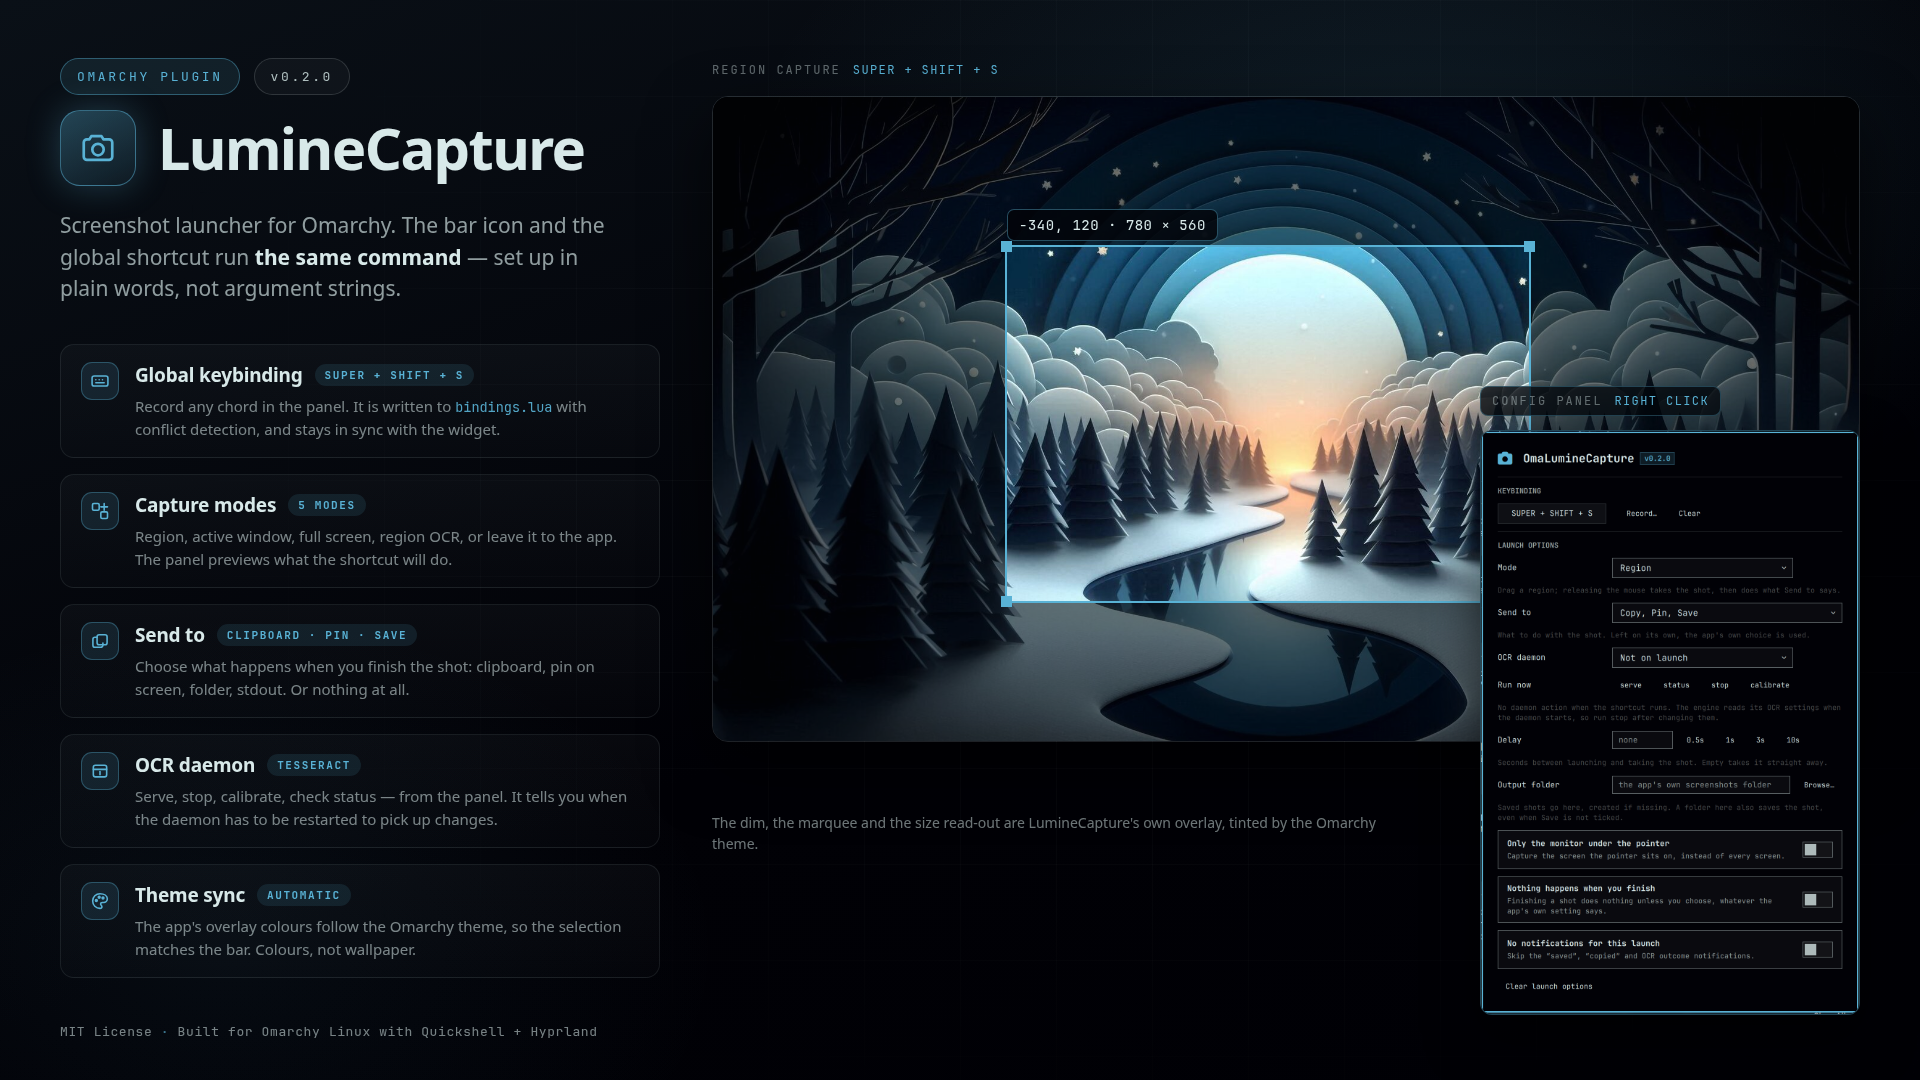
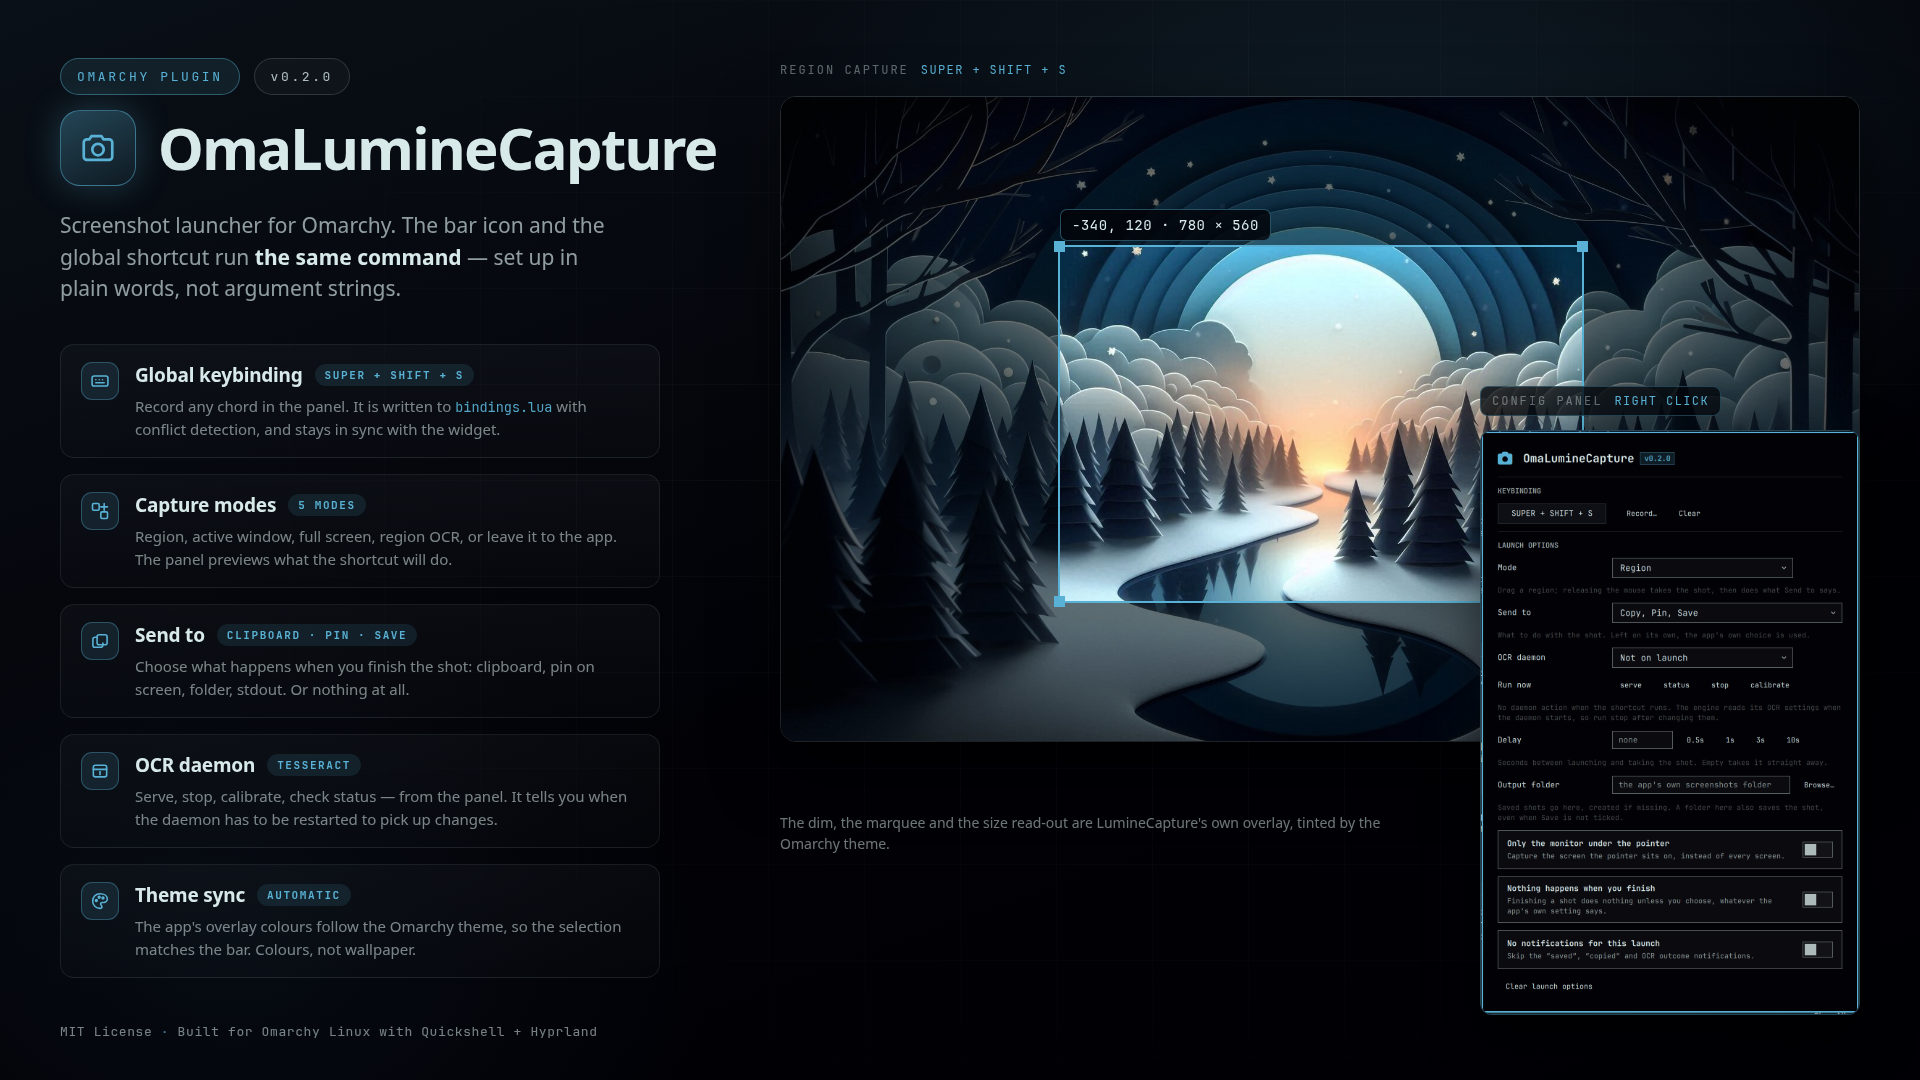
docs: name the plugin OmaLumineCapture in the preview card
The card title is the plugin name, not the app's. The longer title pushed
into the desktop screenshot, so the hero is 1080px wide at x 780 — its
right edge stays aligned with the settings panel — and the label,
marquee and caption moved with it. 65px of clearance, measured on the
render.

diff --git a/docs/preview.html b/docs/preview.html
@@ -1,6 +1,6 @@
 <!doctype html>
 <!--
-  preview.png template for the Omarchy LumineCapture plugin.
+  preview.png template for the Omarchy OmaLumineCapture plugin.
   Render with: scripts/render-preview.sh
   Placeholders replaced by that script: __VERSION__ __ACCENT__ __ACCENT_RGB__
   __FG__ __FG_RGB__ __DARK_FG__ __BG__ __DARK_BG__
@@ -130,15 +130,15 @@
   }
   .label .key { color: var(--accent); letter-spacing: 1.4px; }
 
-  .hero-label { left: 712px; top: 62px; }
+  .hero-label { left: 780px; top: 62px; }
 
   .hero-note {
-    position: absolute; left: 712px; top: 812px; width: 700px;
+    position: absolute; left: 780px; top: 812px; width: 660px;
     font-family: var(--sans); font-size: 14px; line-height: 1.5;
     color: rgba(var(--fg-rgb), 0.5);
   }
   .hero {
-    position: absolute; left: 712px; top: 96px; width: 1148px; height: 646px;
+    position: absolute; left: 780px; top: 96px; width: 1080px; height: 646px;
     border-radius: 16px; overflow: hidden;
     border: 1px solid rgba(var(--fg-rgb), 0.14);
     box-shadow: 0 26px 64px rgba(0, 0, 0, 0.62);
@@ -146,7 +146,7 @@
   .hero img { width: 100%; height: 100%; object-fit: cover; display: block; }
   /* region selection: dim everything outside the marquee */
   .marquee {
-    position: absolute; left: 292px; top: 148px; width: 526px; height: 358px;
+    position: absolute; left: 277px; top: 148px; width: 526px; height: 358px;
     box-shadow: 0 0 0 1400px rgba(2, 4, 8, 0.56);
     border: 2px solid var(--accent);
   }
@@ -211,7 +211,7 @@
       <circle cx="12" cy="13" r="3.6"/>
     </svg>
   </div>
-  <h1>LumineCapture</h1>
+  <h1>OmaLumineCapture</h1>
 </div>
 
 <div class="lede">
@@ -294,6 +294,6 @@
 <div class="hero-note">The dim, the marquee and the size read-out are LumineCapture's own overlay, tinted by the Omarchy theme.</div>
 
 <div class="label chip panel-label">CONFIG PANEL <span class="key">RIGHT CLICK</span></div>
-<div class="panel"><img src="shot-panel.png" alt="LumineCapture settings panel"></div>
+<div class="panel"><img src="shot-panel.png" alt="OmaLumineCapture settings panel"></div>
 
 <div class="footer">MIT License <span>·</span> Built for Omarchy Linux with Quickshell + Hyprland</div>
